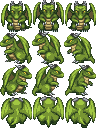
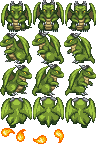
Added Ryan's scoreboard code. Added fireball to dragon. Deleted unused images.

diff --git a/Zed-Eclipse/src/zed/Menu.java b/Zed-Eclipse/src/zed/Menu.java
@@ -1,5 +1,8 @@
 package zed;
 
+import java.io.File;
+import java.io.FileNotFoundException;
+
 import org.lwjgl.input.Mouse;
 import org.newdawn.slick.*;
 import org.newdawn.slick.state.*;
@@ -34,6 +37,31 @@ public class Menu extends BasicGameState {
 		g.drawString("res", 224, 267);
 		g.drawString("exit", 364, 267);
 		g.drawString("new", 297, 267);
+		
+		// New code: attempt to open scoreboard file and display top 3 scores
+		// also change text color so that scores can be easily seen
+		g.setColor(Color.orange);
+		g.drawString("High Scores: ", 25, 150);
+		File scorefile = new File("scoreboard.score");
+		File_Manager scores = new File_Manager();
+		
+		try {
+			int[][] high_scores = scores.Scan_LVL(scorefile, 1);
+			if (high_scores[0].length < 3){
+				int pos = 175;
+				for (int i = 0; i < high_scores[0].length; i++){
+					g.drawString("" + high_scores[0][i],  20,  pos);
+					pos+= 25;
+				}
+			}
+			else{
+				g.drawString("" + high_scores[0][high_scores[0].length - 1], 20, 175);
+				g.drawString("" + high_scores[0][high_scores[0].length - 2], 20, 200);
+				g.drawString("" + high_scores[0][high_scores[0].length - 3], 20, 225);
+			}
+		} catch (FileNotFoundException e) {
+			e.printStackTrace();
+		}
 	}
 
 	@Override
